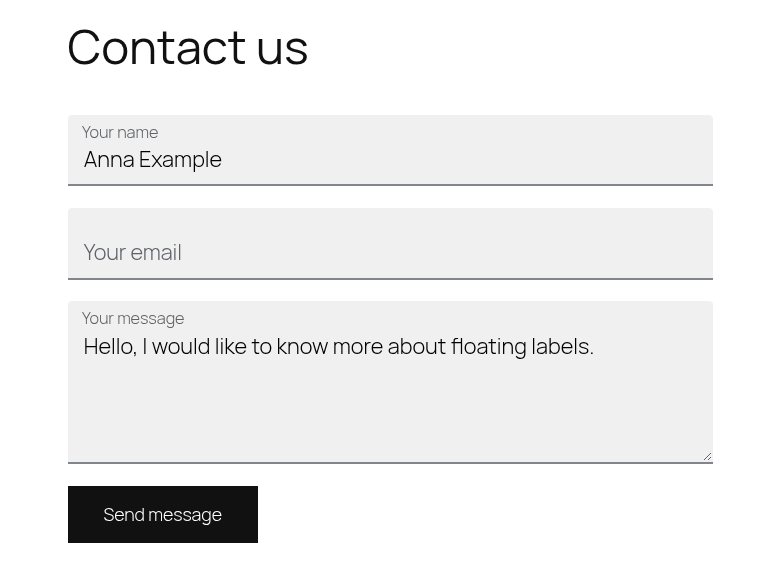
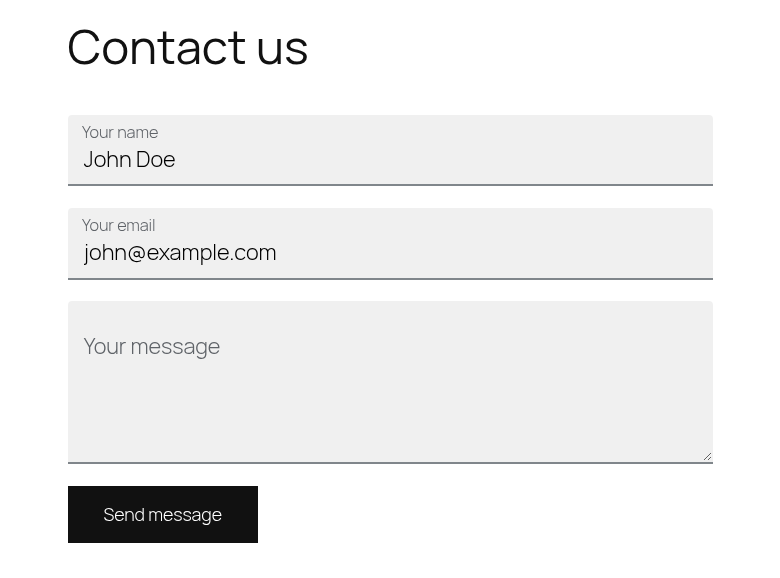
Assets: Rand mit gerundeten Ecken, Beispieltexte John Doe
Icons und Banner (APNG und icon.svg) bekommen einen dünnen schwarzen Rand
mit gerundeten Ecken, außerhalb der Rundung transparent. Beispieltexte in
Icon, Banner und Screenshots: John, John Doe, john@example.com. Der
Fehlerfall-Screenshot zeigt jetzt das leere Pflichtfeld „Your message“.

diff --git a/docs/assets-erzeugen.py b/docs/assets-erzeugen.py
@@ -11,6 +11,8 @@ Datum: 22.10.2026
 
 Farben und Maße folgen den Defaults der Custom Properties in
 plugin/assets/css/floating-labels.css (Variante Outlined). Schrift: Noto Sans.
+Alle Bilder haben einen dünnen schwarzen Rand mit gerundeten Ecken; außerhalb
+der Rundung sind sie transparent.
 
 Aufruf:
   python3 docs/assets-erzeugen.py            schreibt nach assets/
@@ -30,6 +32,8 @@ FONT_BOLD = "/usr/share/fonts/truetype/noto/NotoSans-Bold.ttf"
 FONT_REGULAR = "/usr/share/fonts/truetype/noto/NotoSans-Regular.ttf"
 
 WHITE = (255, 255, 255, 255)
+CLEAR = (0, 0, 0, 0)
+BLACK = (0, 0, 0, 255)
 BORDER = (0x80, 0x86, 0x8B)      # --jgor-flcf7-border-color
 ACTIVE = (0x1A, 0x73, 0xE8)      # --jgor-flcf7-border-color-active
 LABEL = (0x5F, 0x63, 0x68)       # --jgor-flcf7-label-color
@@ -38,6 +42,8 @@ SUBTEXT = (0x50, 0x57, 0x5E)
 
 LABEL_SCALE = 0.72               # Verkleinerung des gefloateten Labels
 SS = 2                           # Supersampling beim Zeichnen (Kantenglättung)
+FRAME_RADIUS = 32 / 256          # Eckenradius des Bildrands, Anteil der kurzen Seite
+FRAME_WIDTH = {128: 1, 256: 2, 772: 1, 1544: 2}  # Randstärke in px je Bildbreite
 
 # Zeitplan (ms)
 HOLD_REST = 900
@@ -64,6 +70,17 @@ def ease_out(t):
 
 def font(path, size):
     return ImageFont.truetype(path, int(round(size)))
+
+
+def framed_canvas(width, height):
+    """Transparentes Bild in Supersampling-Größe mit weißer, gerundeter Fläche
+    und dünnem schwarzem Rand. Rückgabe: (Bild, Zeichenobjekt)."""
+    img = Image.new("RGBA", (width * SS, height * SS), CLEAR)
+    draw = ImageDraw.Draw(img)
+    radius = int(round(min(width, height) * FRAME_RADIUS * SS))
+    stroke = FRAME_WIDTH[width] * SS
+    draw.rounded_rectangle((0, 0, width * SS - 1, height * SS - 1), radius=radius, fill=WHITE, outline=BLACK, width=stroke)
+    return img, draw
 
 
 # ── Zustände der Animation ─────────────────────────────────────────────
@@ -125,14 +142,13 @@ def draw_field(draw, box, state, label, typed, size, stroke, radius, pad):
 
 
 # ── Icon ───────────────────────────────────────────────────────────────
-ICON_LABEL, ICON_TYPED = "Name", "Anna"
+ICON_LABEL, ICON_TYPED = "Name", "John"
 
 
 def icon_frame(state, px):
     """Ein Icon-Bild in px x px (gezeichnet mit Supersampling)."""
     s = px * SS / 256
-    img = Image.new("RGBA", (px * SS, px * SS), WHITE)
-    draw = ImageDraw.Draw(img)
+    img, draw = framed_canvas(px, px)
     box = (24 * s, 92 * s, 232 * s, 164 * s)
     draw_field(draw, box, state, ICON_LABEL, ICON_TYPED, size=30 * s, stroke=int(7 * s), radius=int(14 * s), pad=int(22 * s))
     return img.resize((px, px), Image.LANCZOS)
@@ -142,16 +158,15 @@ def icon_frame(state, px):
 BANNER_W, BANNER_H = 1544, 500
 TITLE = "Floating Labels for CF7"
 SUBTITLE = "Floating labels for Contact Form 7. Pure CSS, no JavaScript."
-FIELD1_LABEL, FIELD1_TYPED = "Your email", "anna@example.com"
-FIELD2_LABEL, FIELD2_TYPED = "Your name", "Anna Example"
+FIELD1_LABEL, FIELD1_TYPED = "Your email", "john@example.com"
+FIELD2_LABEL, FIELD2_TYPED = "Your name", "John Doe"
 
 
 def banner_frame(state, width):
     """Ein Banner-Bild in width x (width * 500 / 1544)."""
     height = int(round(width * BANNER_H / BANNER_W))
     s = width * SS / BANNER_W
-    img = Image.new("RGBA", (width * SS, height * SS), WHITE)
-    draw = ImageDraw.Draw(img)
+    img, draw = framed_canvas(width, height)
 
     draw.text((80 * s, 150 * s), TITLE, font=font(FONT_BOLD, 66 * s), fill=TEXT, anchor="ls")
     draw.text((82 * s, 206 * s), SUBTITLE, font=font(FONT_REGULAR, 28 * s), fill=SUBTEXT, anchor="ls")
@@ -194,7 +209,7 @@ def write_svg(path, total_ms, t_float, t_type, t_hold, t_return):
   @keyframes jgor-border {{ 0%, {rest_end} {{ stroke: #80868b; }} {float_end}, {hold_end} {{ stroke: #1a73e8; }} {return_end}, 100% {{ stroke: #80868b; }} }}
   @keyframes jgor-label {{ 0%, {rest_end} {{ transform: translate(0, 0) scale(1); fill: #5f6368; }} {float_end}, {hold_end} {{ transform: translate(0, -36px) scale({LABEL_SCALE}); fill: #1a73e8; }} {return_end}, 100% {{ transform: translate(0, 0) scale(1); fill: #5f6368; }} }}
   @keyframes jgor-notch {{ 0%, {rest_end} {{ opacity: 0; }} {float_end}, {hold_end} {{ opacity: 1; }} {return_end}, 100% {{ opacity: 0; }} }}
-  @keyframes jgor-typed {{ 0%, {float_end} {{ width: 0; }} {type_end}, {hold_end} {{ width: 80px; }} {return_end}, 100% {{ width: 0; }} }}
+  @keyframes jgor-typed {{ 0%, {float_end} {{ width: 0; }} {type_end}, {hold_end} {{ width: 84px; }} {return_end}, 100% {{ width: 0; }} }}
   @keyframes jgor-caret {{ 0%, {rest_end} {{ opacity: 0; }} {float_end}, {type_end} {{ opacity: 1; }} {hold_end}, 100% {{ opacity: 0; }} }}
   .jgor-field {{ animation: jgor-border {dur} ease-out infinite; }}
   .jgor-label {{ transform-origin: 46px 128px; animation: jgor-label {dur} ease-out infinite; }}
@@ -205,7 +220,7 @@ def write_svg(path, total_ms, t_float, t_type, t_hold, t_return):
     .jgor-field, .jgor-label, .jgor-notch, .jgor-typed, .jgor-caret {{ animation: none; }}
   }}
 </style>
-<rect width="256" height="256" fill="#fff"/>
+<rect x="1" y="1" width="254" height="254" rx="32" fill="#fff" stroke="#000" stroke-width="2"/>
 <rect class="jgor-field" x="24" y="92" width="208" height="72" rx="14" fill="#fff" stroke="#80868b" stroke-width="7"/>
 <rect class="jgor-notch" x="40" y="85" width="56" height="14" fill="#fff" opacity="0"/>
 <text class="jgor-label" x="46" y="128" dominant-baseline="central" font-family="'Noto Sans', 'Segoe UI', Roboto, Helvetica, Arial, sans-serif" font-size="30" fill="#5f6368">{ICON_LABEL}</text>
